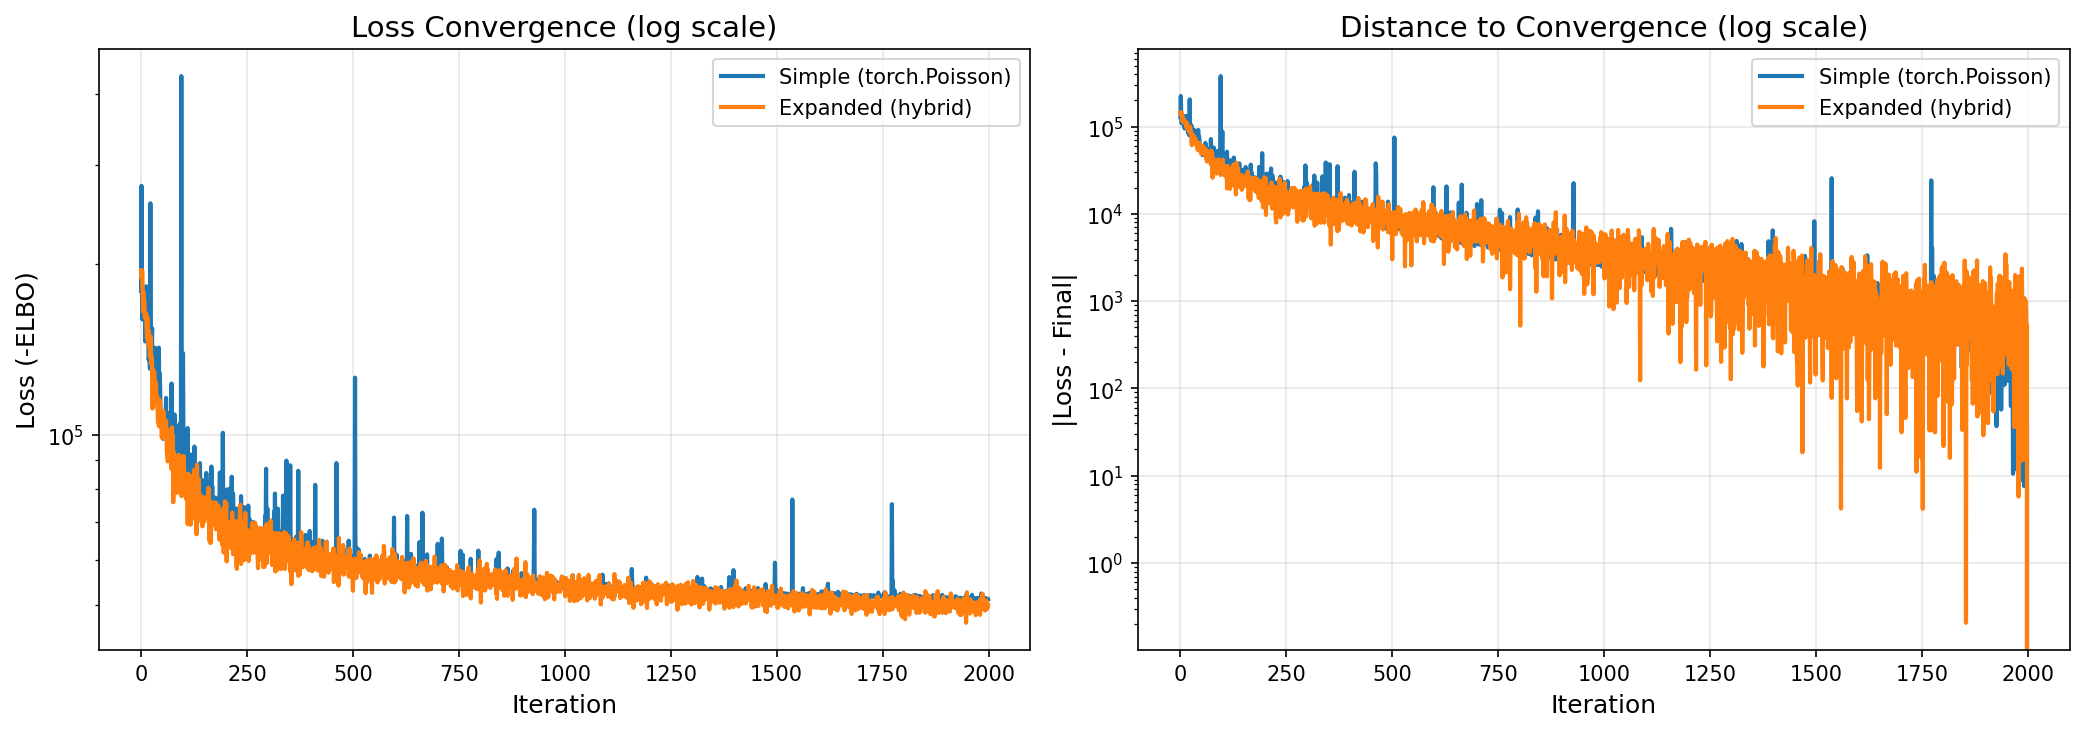
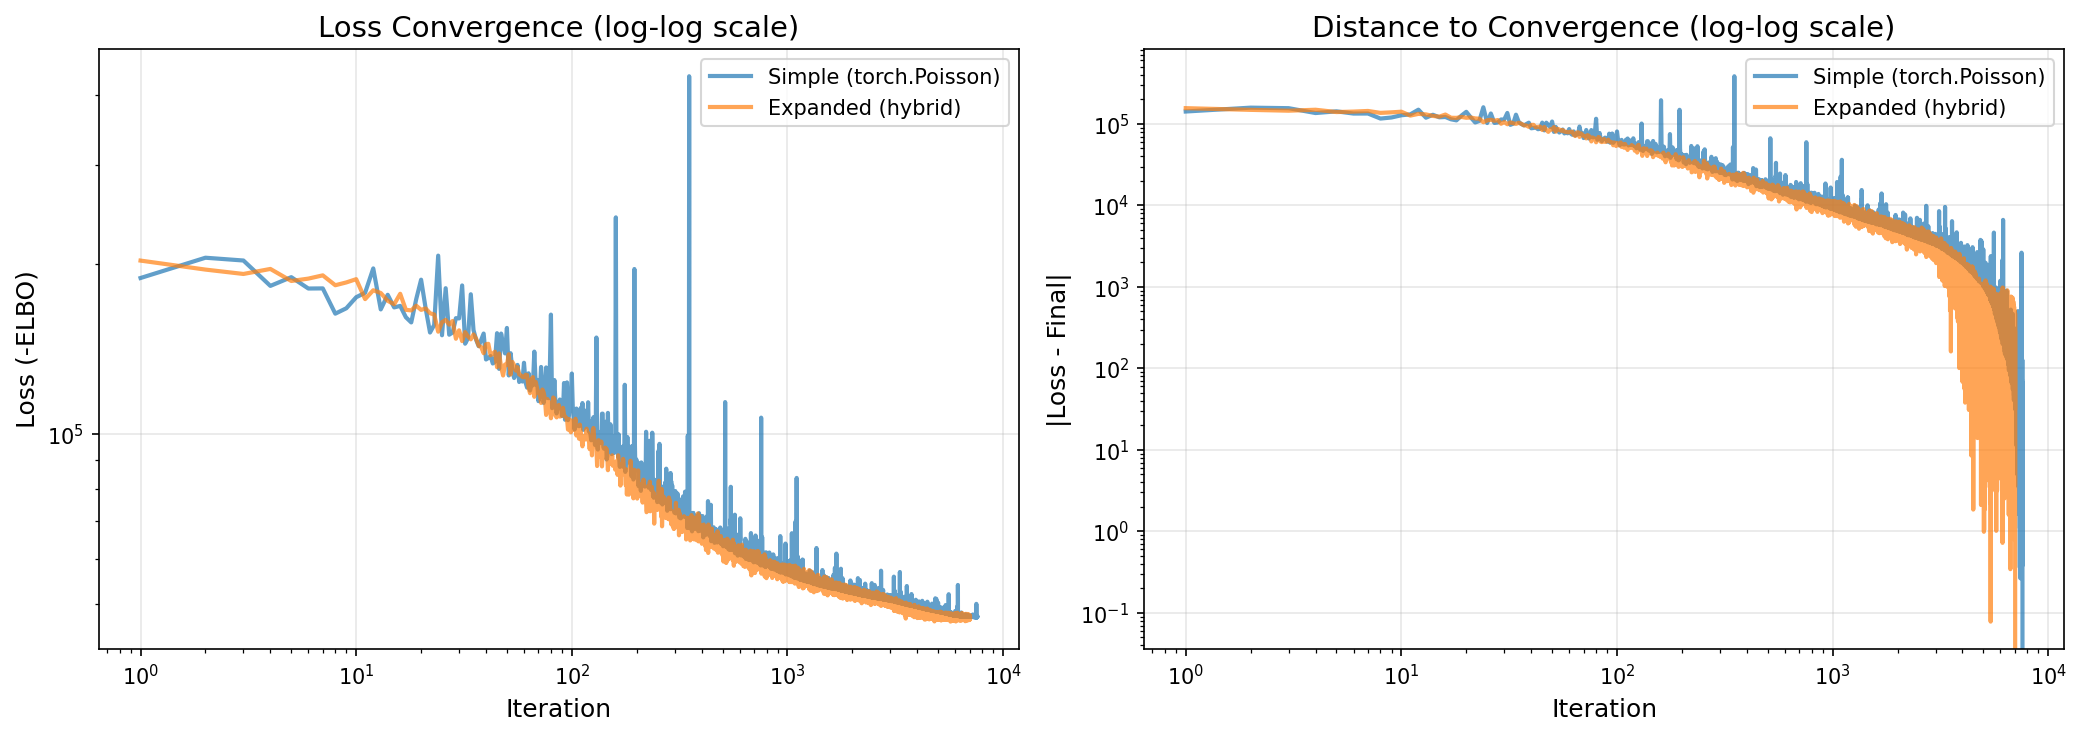
Add MPS device support and update benchmark with E=10, lr=0.005
- Add MPS (Apple Silicon) auto-detection to _get_device() method
- Device priority: CUDA > MPS > CPU when device='auto'
- Update benchmark to use E=10 MC samples and lr=0.005
- Update plot to use log-log scale with transparency (alpha=0.7)
- Fix plot function to handle different array lengths for early convergence

diff --git a/benchmarks/simple_vs_expanded.py b/benchmarks/simple_vs_expanded.py
@@ -75,7 +75,7 @@ def run_benchmark(mode='expanded', n_components=5, max_iter=100, random_state=42
         n_components=n_components,
         mode=mode,
         loadings_mode='projected',
-        E=3,
+        E=10,
         max_iter=max_iter,
         tol=1e-4,
         learning_rate=learning_rate,
@@ -121,13 +121,15 @@ def plot_results(results_simple, results_expanded, output_path='benchmarks/conve
     loss_simple = [-x for x in results_simple['elbo_history']]
     loss_expanded = [-x for x in results_expanded['elbo_history']]
 
-    # Plot 1: Loss convergence (log scale)
+    # Plot 1: Loss convergence (log-log scale)
     ax1 = axes[0]
-    ax1.semilogy(loss_simple, label='Simple (torch.Poisson)', linewidth=2)
-    ax1.semilogy(loss_expanded, label='Expanded (hybrid)', linewidth=2)
+    iterations_simple = range(1, len(loss_simple) + 1)
+    iterations_expanded = range(1, len(loss_expanded) + 1)
+    ax1.loglog(iterations_simple, loss_simple, label='Simple (torch.Poisson)', linewidth=2, alpha=0.7)
+    ax1.loglog(iterations_expanded, loss_expanded, label='Expanded (hybrid)', linewidth=2, alpha=0.7)
     ax1.set_xlabel('Iteration', fontsize=12)
     ax1.set_ylabel('Loss (-ELBO)', fontsize=12)
-    ax1.set_title('Loss Convergence (log scale)', fontsize=14)
+    ax1.set_title('Loss Convergence (log-log scale)', fontsize=14)
     ax1.legend(fontsize=10)
     ax1.grid(True, alpha=0.3)
 
@@ -140,11 +142,11 @@ def plot_results(results_simple, results_expanded, output_path='benchmarks/conve
     diff_simple = [abs(x - final_simple) for x in loss_simple]
     diff_expanded = [abs(x - final_expanded) for x in loss_expanded]
 
-    ax2.semilogy(diff_simple, label='Simple (torch.Poisson)', linewidth=2)
-    ax2.semilogy(diff_expanded, label='Expanded (hybrid)', linewidth=2)
+    ax2.loglog(iterations_simple, diff_simple, label='Simple (torch.Poisson)', linewidth=2, alpha=0.7)
+    ax2.loglog(iterations_expanded, diff_expanded, label='Expanded (hybrid)', linewidth=2, alpha=0.7)
     ax2.set_xlabel('Iteration', fontsize=12)
     ax2.set_ylabel('|Loss - Final|', fontsize=12)
-    ax2.set_title('Distance to Convergence (log scale)', fontsize=14)
+    ax2.set_title('Distance to Convergence (log-log scale)', fontsize=14)
     ax2.legend(fontsize=10)
     ax2.grid(True, alpha=0.3)
 
@@ -222,12 +224,12 @@ def main():
 
     # Run benchmarks
     print("Running simple mode (torch.Poisson)...")
-    results_simple = run_benchmark(mode='simple', n_components=5, max_iter=2000, random_state=42, verbose=False, optimizer='Adam')
+    results_simple = run_benchmark(mode='simple', n_components=5, max_iter=8000, random_state=42, verbose=False, optimizer='Adam', learning_rate=0.005)
     print(f"  Completed in {results_simple['n_iterations']} iterations")
     print()
 
     print("Running expanded mode (hybrid MC + analytic)...")
-    results_expanded = run_benchmark(mode='expanded', n_components=5, max_iter=2000, random_state=42, verbose=False, optimizer='Adam')
+    results_expanded = run_benchmark(mode='expanded', n_components=5, max_iter=8000, random_state=42, verbose=False, optimizer='Adam', learning_rate=0.005)
     print(f"  Completed in {results_expanded['n_iterations']} iterations")
     print()
 

diff --git a/PNMF/models.py b/PNMF/models.py
@@ -173,8 +173,9 @@ class PNMF:
     verbose : bool, default=False
         Whether to print progress messages.
 
-    device : {'cpu', 'cuda', 'auto'}, default='auto'
-        Device to use for computation.
+    device : {'cpu', 'cuda', 'mps', 'auto'}, default='auto'
+        Device to use for computation. 'auto' will select mps (Apple Silicon),
+        cuda (NVIDIA), or cpu in that order based on availability.
 
     Attributes
     ----------
@@ -269,7 +270,12 @@ class PNMF:
     def _get_device(self):
         """Determine the device to use."""
         if self.device == 'auto':
-            return torch.device('cuda' if torch.cuda.is_available() else 'cpu')
+            if torch.cuda.is_available():
+                return torch.device('cuda')
+            elif torch.backends.mps.is_available():
+                return torch.device('mps')
+            else:
+                return torch.device('cpu')
         return torch.device(self.device)
 
     def _elbo(self, rate, qF, pF, X):
